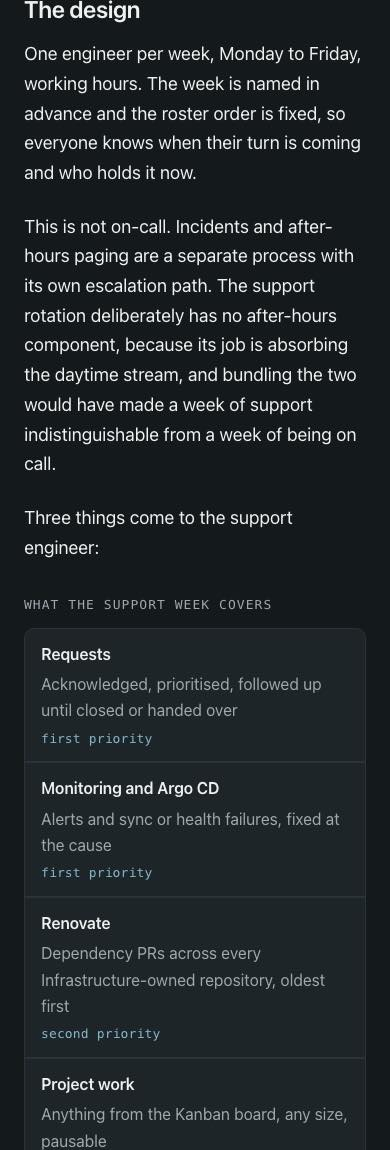
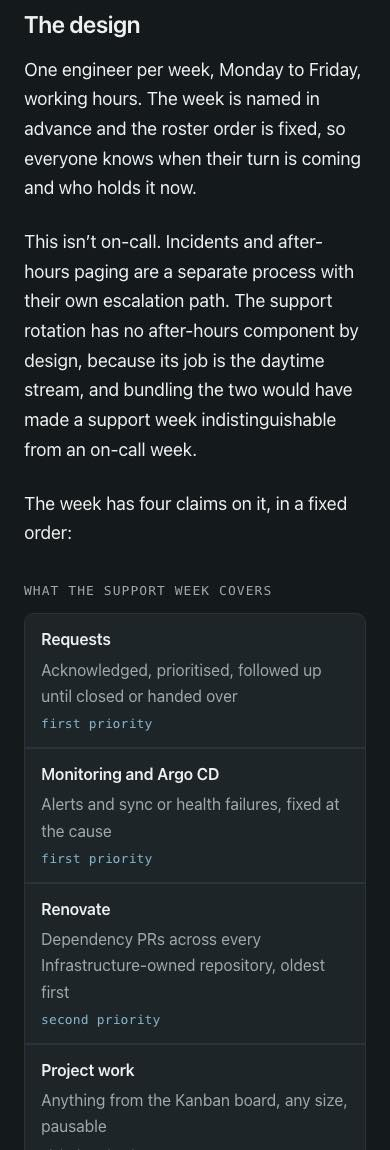
style: run the support case study through the writing guide
Lucas asked for it against 03-writing-style.md. Two rules were broken badly
and a third once.

Rule 9, contractions. The draft had 17 uncontracted forms and zero
contractions, which read as a different voice from the other three case
studies and from the rest of the site. Now 18 contractions against 2 plain
forms.

Rule 2, epigrams. Fifteen aphoristic closers, which grep cannot find and
reading can: "a platform team gets interrupted for a living", "a request in a
chat channel is a message that scrolls", "a monitor that cries wolf is worse
than no monitor", "unfixable-this-week is an acceptable outcome; unowned is
not", "makes a planned week actually plannable", "that is tuition, and it is
also the mechanism", and the worst offender, "writing things down helps the
person who already knows where to look. A rotation makes people look."

That last one was the thesis as a punchline, sitting directly under the three
sentences that already made the point with facts, which is exactly the test
the rule applies: rhetoric doing work the facts had already done. Replaced
with a plain sentence.

Rule 4, one instance: "the one I would talk about now" announced the point
instead of making it.

Rules 1, 3 and 5 were already clean.

No claim changed. Every fact from Lucas's process document is intact, and it
is still draft with the same three open questions.

One deliberate conflict, noted rather than resolved: rule 7 says vary the
[…]

diff --git a/content/work/support-engineering-rotation.md b/content/work/support-engineering-rotation.md
@@ -14,33 +14,33 @@ description: "A weekly support engineer rotation at Fortis Games: one person abs
 ---
 
 > Draft. Written from the team's own process document. Three things need checking before
-> this publishes; they are at the end.
+> this publishes; they're at the end.
 
 ## Context
 
-A platform team gets interrupted for a living. Requests for access, a service behaving
-oddly, an alert firing, a dependency upgrade waiting on review. None of it is optional and
-none of it is the project anyone is supposed to be working on this quarter.
+A platform team fields a continuous stream of small work. Requests for access, a service
+behaving oddly, an alert firing, a dependency upgrade waiting on review. None of it is
+optional and none of it is the project anyone is supposed to be working on this quarter.
 
 Handled the obvious way, that work lands on whoever happens to see the message. The cost
 shows up twice. Project work gets fragmented, because an engineer who might be interrupted
-cannot plan a day around deep work. And the interrupts route themselves to whoever is known
-to answer them, which means they always reach the same person.
+can't plan a day around deep work. And the interrupts route themselves to whoever is known
+to answer them, which means they keep reaching the same person.
 
-The second cost was sharper for us than the first. The team was organised around four areas
-with a lead each: CI/CD, SRE, platform, AI infrastructure. Specialisation is why that
-structure works, and it is also how an area becomes one person's private knowledge. When
-every CI/CD question goes to the CI/CD people, nobody else ever learns CI/CD.
+The second cost was the sharper one for us. The team was organised around four areas with a
+lead each: CI/CD, SRE, platform, AI infrastructure. Specialisation is why that structure
+works, and it's also how an area becomes one person's private knowledge. When every CI/CD
+question goes to the CI/CD people, nobody else ever learns CI/CD.
 
 ## Constraints
 
 Requests still had to be answered the same day. Pushing them into a backlog groomed next
-sprint turns a working platform into a ticket queue. The team also spanned four countries,
-so nothing could depend on everyone being online at once.
+sprint leaves the people who filed them waiting on a platform that's meant to unblock them.
 
-A dedicated support person was the obvious answer and the wrong one. A permanent support
-role fixes the interruption problem by making one engineer absorb it forever, which solves
-the focus half and makes the knowledge half worse.
+The team spanned four countries, so nothing could depend on everyone being online at once.
+
+A dedicated support person would have solved the interruption problem and made the
+knowledge problem worse, by giving one engineer the interrupts permanently.
 
 ## My role
 
@@ -52,10 +52,10 @@ One engineer per week, Monday to Friday, working hours. The week is named in adv
 the roster order is fixed, so everyone knows when their turn is coming and who holds it
 now.
 
-This is not on-call. Incidents and after-hours paging are a separate process with its own
-escalation path. The support rotation deliberately has no after-hours component, because
-its job is absorbing the daytime stream, and bundling the two would have made a week of
-support indistinguishable from a week of being on call.
+This isn't on-call. Incidents and after-hours paging are a separate process with their own
+escalation path. The support rotation has no after-hours component by design, because its
+job is the daytime stream, and bundling the two would have made a support week
+indistinguishable from an on-call week.
 
 The week has four claims on it, in a fixed order:
 
@@ -66,80 +66,75 @@ Renovate :: Dependency PRs across every Infrastructure-owned repository, oldest 
 Project work :: Anything from the Kanban board, any size, pausable :: third priority
 {{< /stack >}}
 
-The ladder is written down because without it the support engineer optimises for whatever
-is loudest.
+The order is written down because an undirected support engineer will work on whichever
+thing is making the most noise, and that isn't reliably the thing that matters most.
 
 Project work is explicitly allowed to be large. The constraint is that it has to be
-pausable, not that it has to be small. A support week that forbids real work produces a
-week of busy-waiting, and that is capacity the team planned for and did not get.
+pausable, not that it has to be small. If the week forbids real work, the team loses
+capacity it had planned for.
 
 ## Making requests visible
 
-A request in a chat channel is a message that scrolls. Reacting to it with an envelope
-emoji creates a tracked task automatically, so the cost of capturing a request is one
-reaction and there is nothing a requester has to learn.
+A request in a chat channel isn't tracked. Reacting to it with an envelope emoji creates a
+tracked task automatically, so capturing a request costs one reaction and there's nothing a
+requester has to learn.
 
 The support engineer coordinates it through to completion even when somebody else
-implements the fix. Ownership follows the request, not the implementation, which is what
-stops a handed-off request from quietly becoming nobody's.
+implements the fix. Ownership follows the request and not the implementation, so a request
+that gets handed off still has someone answerable for it.
 
 ## No broken windows
 
-For alerts and Argo CD failures the rule is explicit: do not let recurring failures or
-noisy alerts become something the team learns to ignore.
+For alerts and Argo CD failures the rule is explicit: don't let recurring failures or noisy
+alerts become something the team learns to ignore.
 
 That means fixing the underlying cause, and it also means editing the monitor when the
-monitor is what is wrong. A monitor that cries wolf is worse than no
-monitor, because it trains everyone to scroll past the channel where the real one will
-appear.
+monitor is what's wrong. A monitor that fires on nothing teaches people to skim the channel
+where the real alert is going to arrive.
 
-If something cannot be fixed inside the week, it gets documented and given an owner.
-Unfixable-this-week is an acceptable outcome; unowned is not.
+If something can't be fixed inside the week, it gets documented and given an owner.
 
 ## Friday handoff
 
-The handoff happens in the Friday team meeting, which already existed. It did not need a
-new meeting, and putting it in front of the whole team makes the week's state common
-knowledge, not a private briefing between two people.
+The handoff happens in the Friday team meeting, which already existed. It didn't need a new
+meeting, and doing it in front of the whole team makes the week's state common knowledge.
 
 The outgoing engineer covers open requests and blockers, unresolved alerts and Argo CD
 failures, Renovate PRs still needing attention, and anything else the next engineer should
-know. Tasks are updated before the meeting, so the handoff is a conversation about state and not an
-attempt to reconstruct it.
+know. Tasks are updated before the meeting, so the handoff is a conversation about state
+and not an attempt to reconstruct it.
 
 ## What it did
 
 The direct effect is the one it was designed for. Seven engineers get a week where
-interrupts are somebody else's job, which makes a planned week actually plannable.
+interrupts are somebody else's job.
 
-The effect I did not design for is the one I would talk about now. Every engineer passes
-through every area, roughly a week in eight. The SRE specialist spends a week merging CI/CD
-dependency upgrades. The CI/CD specialist spends a week inside Argo CD sync failures.
-Nobody gets to route an area's questions permanently to the person who owns that area,
-because in eight weeks they will be answering them personally.
+The second effect wasn't something I designed for, and it's the one I'd point at now. Every
+engineer passes through every area, roughly a week in eight. The SRE specialist spends a
+week merging CI/CD dependency upgrades. The CI/CD specialist spends a week inside Argo CD
+sync failures. Nobody can route an area's questions permanently to the person who owns that
+area, because in eight weeks they'll be answering them.
 
-That did more for cross-area knowledge than any documentation effort I ran. Writing things
-down helps the person who already knows where to look. A rotation makes people look.
+It moved more knowledge between areas than the documentation work I ran, because it put
+people inside areas they wouldn't have picked.
 
 ## Trade-offs
 
-One engineer in eight on support is around twelve percent of capacity spent on work that
-never appears on a roadmap. That cost was always being paid, spread invisibly across
-everyone, where it could not be planned around or measured.
+One engineer in eight on support is around twelve percent of capacity going to work that
+never appears on a roadmap. That cost was already being paid, spread across everyone, where
+it couldn't be planned around or measured.
 
-A specialist having a slow week in someone else's area is also a real cost. Requests take
-longer to resolve while the person holding them is learning. That is tuition, and it is
-also the mechanism.
+A specialist having a slow week in somebody else's area is a real cost too. Requests take
+longer to resolve while the person holding them is learning, and that's part of how the
+knowledge moves.
 
-Weekly is long enough to see something through and short enough that the turn comes round
-often. Shorter would add handoffs, which is where state goes missing.
+A week is long enough to see something through and short enough that the turn comes round
+often. Shorter shifts would add handoffs, and every handoff is a chance to drop context.
 
 ## What I would do differently
 
-Measure it. I can describe what the rotation changed and I cannot show it, because nothing
-was instrumented before or after. Request volume and time to acknowledge were both
-available and neither was tracked, which makes the strongest claim here the one I can least
-support.
+Measure it. I can describe what the rotation changed and I can't show it. Request volume
+and time to acknowledge were both available and neither was tracked.
 
 ## Open before this publishes
 
